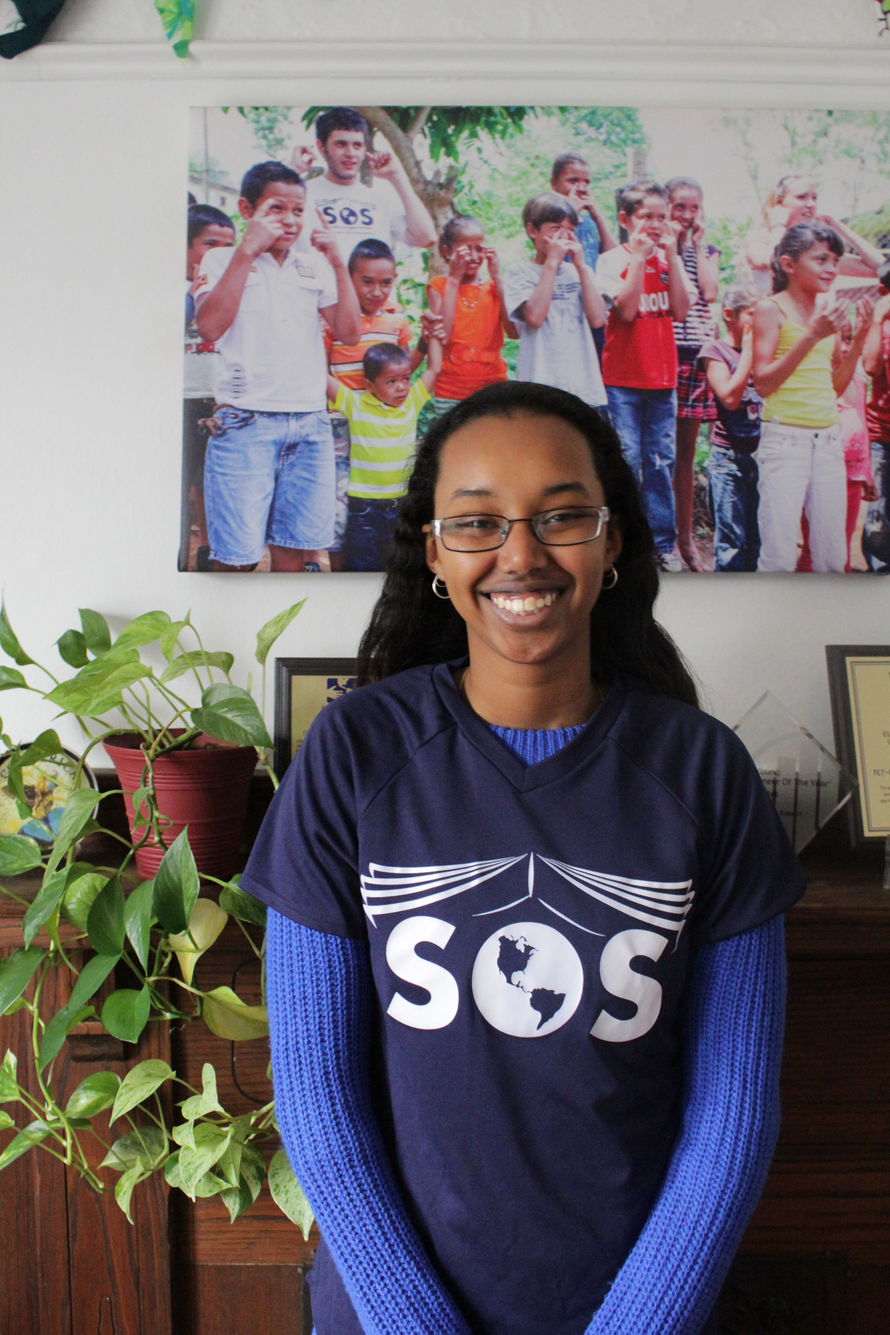
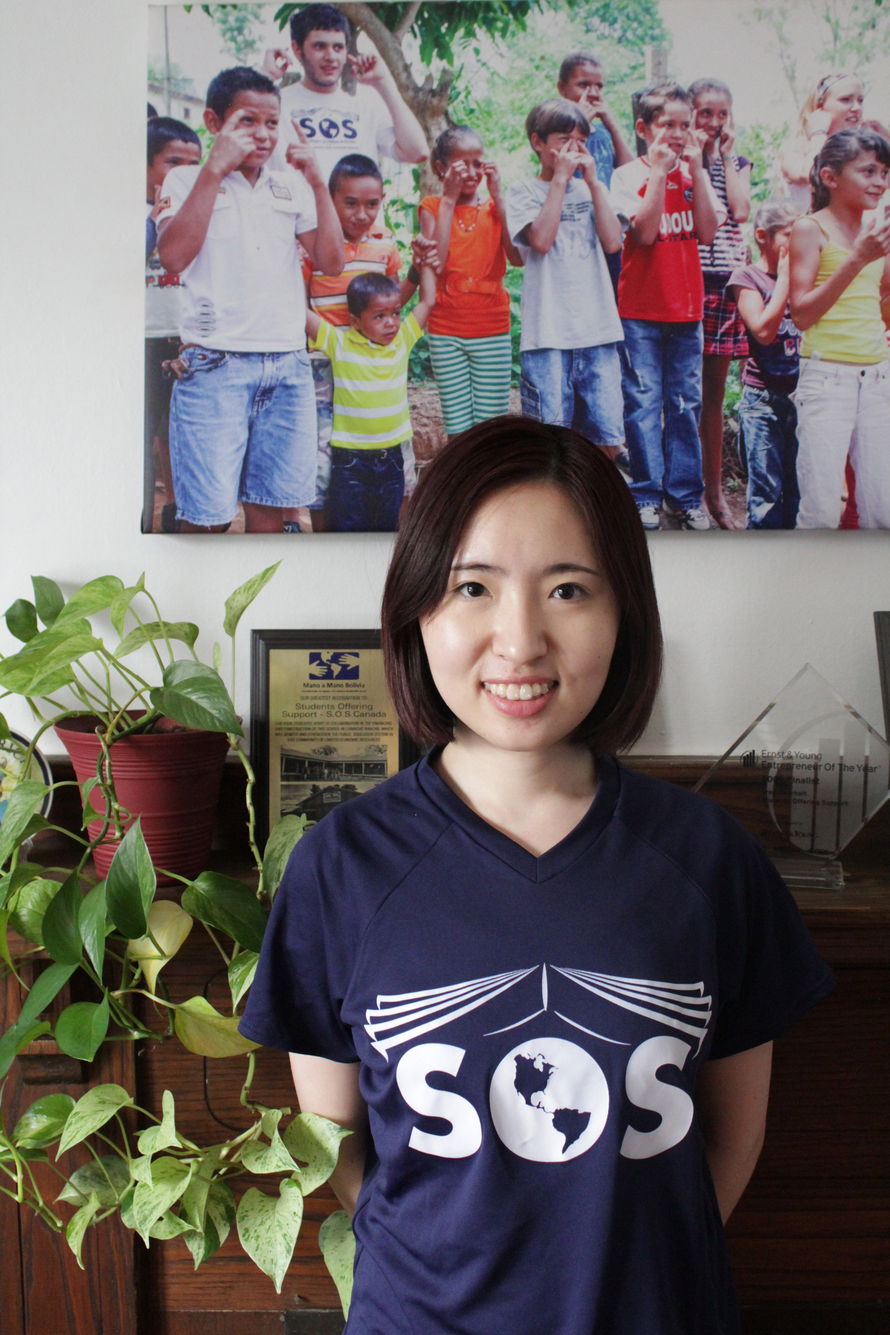
Finished aligning images alongside each other for desktop view.

diff --git a/our-team.html b/our-team.html
@@ -35,16 +35,85 @@
 
     <div class="team-banner">
       <h1 class="team-title">Our Team</h1>
-      <p class="team-header">Lorem ipsum dolor sit amet, consectetur adipisicing elit, sed do eiusmod tempor incididunt ut labore et dolore magna aliqua. Ut enim ad minim veniam, quis nostrud exercitation ullamco laboris nisi ut aliquip ex ea commodo consequat. Duis aute irure dolor in reprehenderit in voluptate velit esse cillum dolore eu fugiat nulla pariatur. Excepteur sint occaecat cupidatat non proident, sunt in culpa qui officia deserunt mollit anim id est laborum.</p>
+      <p class="team-header">We are a tight-knit group at Students Offering Support. With 4 members out of head office, we are also complemented by a team of interns ranging from IT, Finance, Admin Ops and Events. We take pride in supporting the model and by providing support to our SOS chapters, we strive to deliver access to education for those who need it most!</p>
     </div>
 
-
-    <div class="team-modal">
-    	<!-- Trigger the modal with a button -->
-  	  <a href="#" data-toggle="modal" data-target="#myModal-1"><img class="modal-image" src="img/topleft.jpg"></a>
-  	  <a href="#" data-toggle="modal" data-target="#myModal-2"><img class="modal-image" src="img/topright.jpg"></a>
-  	  <a href="#" data-toggle="modal" data-target="#myModal-3"><img class="modal-image" src="img/bottomleft.jpg"></a>
-  	  <a href="#" data-toggle="modal" data-target="#myModal-4"><img class="modal-image" src="img/bottomright.jpg"></a>
+    <div class="team-container">
+      <div class="team-modal">
+      	<!-- Trigger the modal with a button -->
+    	  <a href="#" data-toggle="modal" data-target="#myModal-1"><img class="modal-image" src="img/topleft.jpg"></a>
+    	  <a href="#" data-toggle="modal" data-target="#myModal-2"><img class="modal-image" src="img/topright.jpg"></a>
+    	  <a href="#" data-toggle="modal" data-target="#myModal-3"><img class="modal-image" src="img/bottomleft.jpg"></a>
+    	  <a href="#" data-toggle="modal" data-target="#myModal-4"><img class="modal-image" src="img/bottomright.jpg"></a>
+      </div>
+      <div id="myCarousel" class="carousel slide" data-ride="carousel">
+        <ol class="carousel-indicators">
+          <li data-target="#myCarousel" data-slide-to="0" class="active"></li>
+          <li data-target="#myCarousel" data-slide-to="1" class=""></li>
+          <li data-target="#myCarousel" data-slide-to="2" class=""></li>
+          <li data-target="#myCarousel" data-slide-to="3" class=""></li>
+          <li data-target="#myCarousel" data-slide-to="4" class=""></li>
+          <li data-target="#myCarousel" data-slide-to="5" class=""></li>
+        </ol>
+        <div class="carousel-inner" role="listbox">
+          <div class="item active">
+            <img class="first-slide" src="img/1.jpg" alt="First slide">
+            <div class="container">
+              <div class="carousel-caption">
+                <p>Ibtisam - Finance</p>
+              </div>
+            </div>
+          </div>
+          <div class="item">
+            <img class="second-slide" src="img/2.jpg" alt="Second slide">
+            <div class="container">
+              <div class="carousel-caption">
+                <p>Armando - IT</p>
+              </div>
+            </div>
+          </div>
+          <div class="item">
+            <img class="third-slide" src="img/3.jpg" alt="Third slide">
+            <div class="container">
+              <div class="carousel-caption">
+                <p>Kristin - Admin Ops</p>
+              </div>
+            </div>
+          </div>
+          <div class="item">
+            <img class="fourth-slide" src="img/4.jpg" alt="Fourth slide">
+            <div class="container">
+              <div class="carousel-caption">
+                <p>Dominque - Events</p>
+              </div>
+            </div>
+          </div>
+          <div class="item">
+            <img class="fifth-slide" src="img/5.jpg" alt="Fifth slide">
+            <div class="container">
+              <div class="carousel-caption">
+                <p>Alejandro - Partnerships</p>
+              </div>
+            </div>
+          </div>
+          <div class="item">
+            <img class="sixth-slide" src="img/6.jpg" alt="Sixth slide">
+            <div class="container">
+              <div class="carousel-caption">
+                <p>Flora - Admin Ops</p>
+              </div>
+            </div>
+          </div>
+        </div>
+        <a class="left carousel-control" href="#myCarousel" role="button" data-slide="prev">
+          <span class="glyphicon glyphicon-chevron-left" aria-hidden="true"></span>
+          <span class="sr-only">Previous</span>
+        </a>
+        <a class="right carousel-control" href="#myCarousel" role="button" data-slide="next">
+          <span class="glyphicon glyphicon-chevron-right" aria-hidden="true"></span>
+          <span class="sr-only">Next</span>
+        </a>
+      </div>
     </div>
 
   	<!-- Modal -->
@@ -120,52 +189,7 @@
     </div>
 	</div>
 
-  <div class="divideline"></div>
 
-	<div class="team-banner">
-	  <h1 class="team-title">Our Interns</h1>
-	</div>
-  <div id="myCarousel" class="carousel slide" data-ride="carousel">
-    <ol class="carousel-indicators">
-      <li data-target="#myCarousel" data-slide-to="0" class="active"></li>
-      <li data-target="#myCarousel" data-slide-to="1" class=""></li>
-      <li data-target="#myCarousel" data-slide-to="2" class=""></li>
-    </ol>
-    <div class="carousel-inner" role="listbox">
-      <div class="item active">
-        <img class="first-slide" src="img/1.jpg" alt="First slide">
-        <div class="container">
-          <div class="carousel-caption">
-            <p>Intern # Name</p>
-          </div>
-        </div>
-      </div>
-      <div class="item">
-        <img class="second-slide" src="img/2.jpg" alt="Second slide">
-        <div class="container">
-          <div class="carousel-caption">
-            <p>Intern # Name</p>
-          </div>
-        </div>
-      </div>
-      <div class="item">
-        <img class="third-slide" src="img/3.jpeg" alt="Third slide">
-        <div class="container">
-          <div class="carousel-caption">
-            <p>Intern # Name</p>
-          </div>
-        </div>
-      </div>
-    </div>
-    <a class="left carousel-control" href="#myCarousel" role="button" data-slide="prev">
-      <span class="glyphicon glyphicon-chevron-left" aria-hidden="true"></span>
-      <span class="sr-only">Previous</span>
-    </a>
-    <a class="right carousel-control" href="#myCarousel" role="button" data-slide="next">
-      <span class="glyphicon glyphicon-chevron-right" aria-hidden="true"></span>
-      <span class="sr-only">Next</span>
-    </a>
-  </div>
 
 
   <footer class="footer">

diff --git a/css/our-team.css b/css/our-team.css
@@ -1020,7 +1020,7 @@
   .carousel {
   	margin: auto;
   	margin-bottom: 10px;
-  	width: 70%
+  	width: 10%
   }
 }
 @media only screen and (min-device-width: 1025px) {
@@ -1230,8 +1230,12 @@
   }
 
   /* teamS PAGER */
+  .team-container {
+    text-align: center;
+    margin: 50px 0;
+  }
   .team-banner {
-    padding: 10px 200px;
+    padding: 10px 200px 0;
   }
   .team-title {
     font-size: 32px;
@@ -1243,15 +1247,16 @@
     font-family: 'Poppins', sans-serif;
   }
   .team-modal {
-  	margin: 0 400px 10px 400px;
-    text-align: center;
+    width: 400px;
+    display: inline-block;
+    vertical-align: top;
   }
   .modal-header {
     text-align: center;
   }
   .modal-image {
   	height: 300px;
-  	padding-bottom: 10px;
+  	padding-bottom: 5px;
   }
   .in-modal-image {
     padding-top: 10px;
@@ -1275,9 +1280,8 @@
     font-size: 16px;
   }
   .carousel {
-  	margin: auto;
-  	margin-bottom: 10px;
-  	width: 70%
+  	width: 396.5px;
+    display: inline-block;
   }
 }
 
